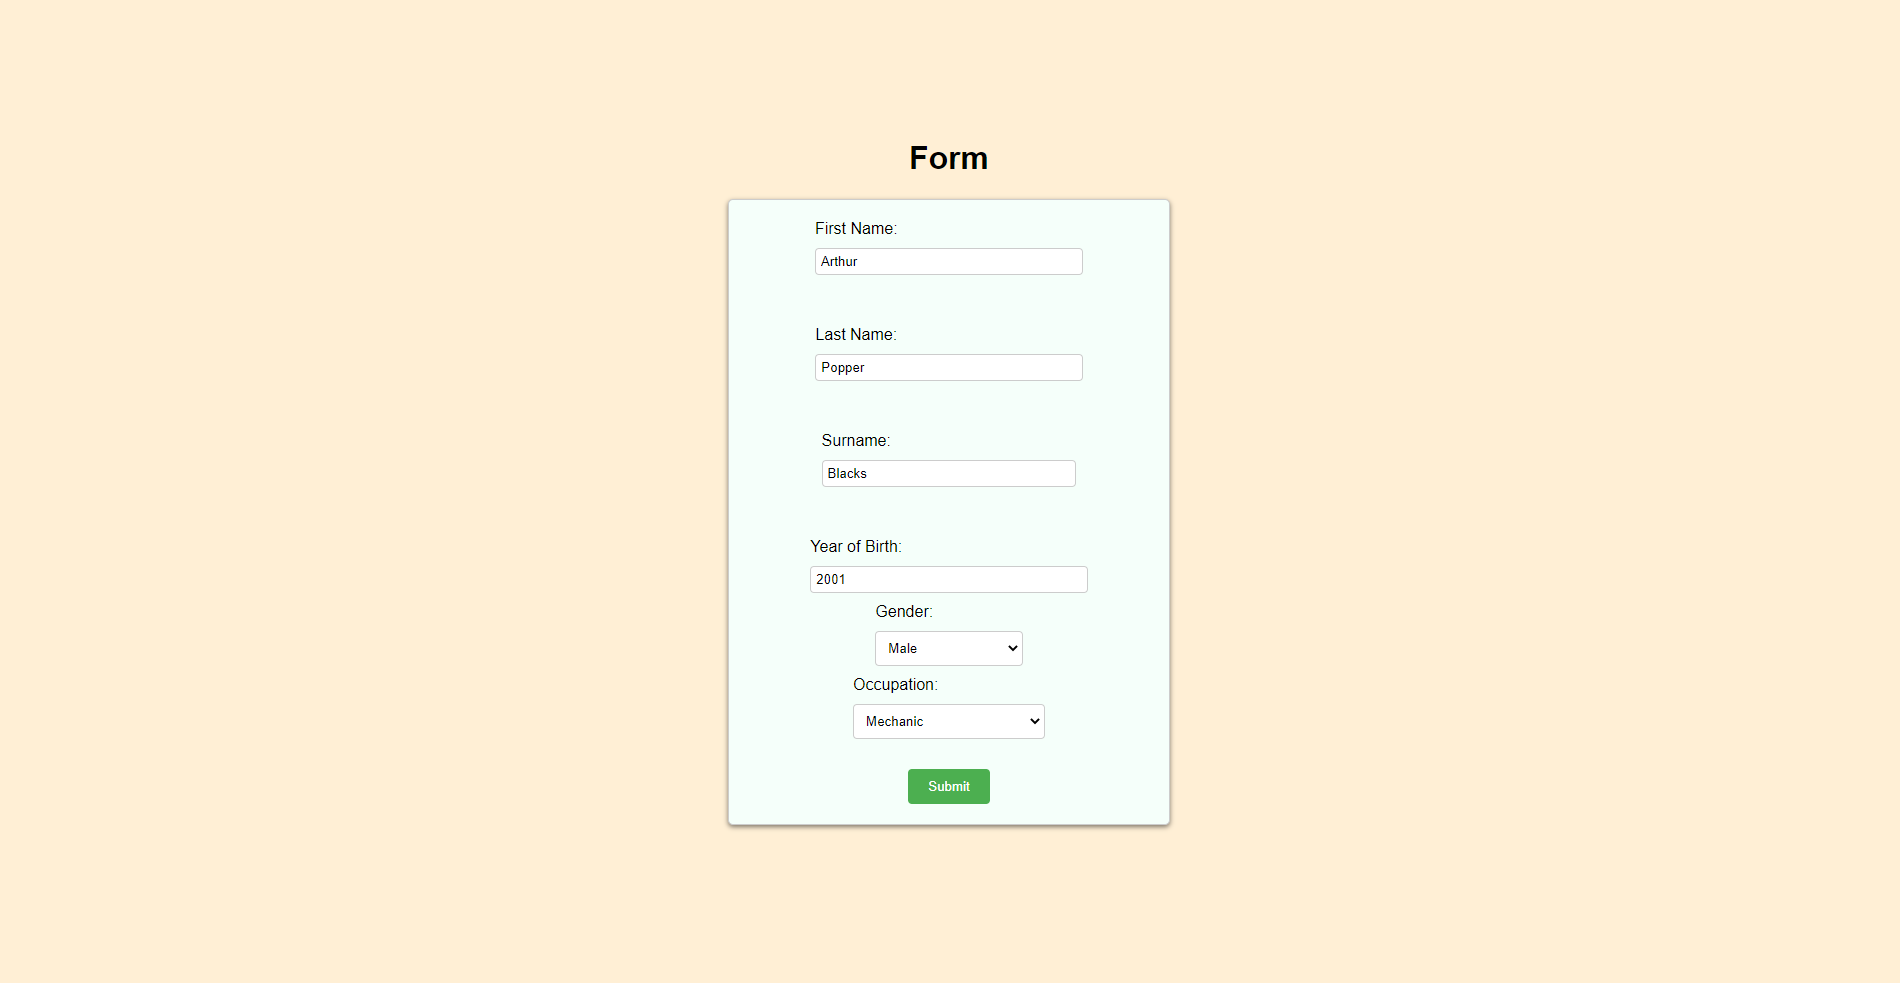
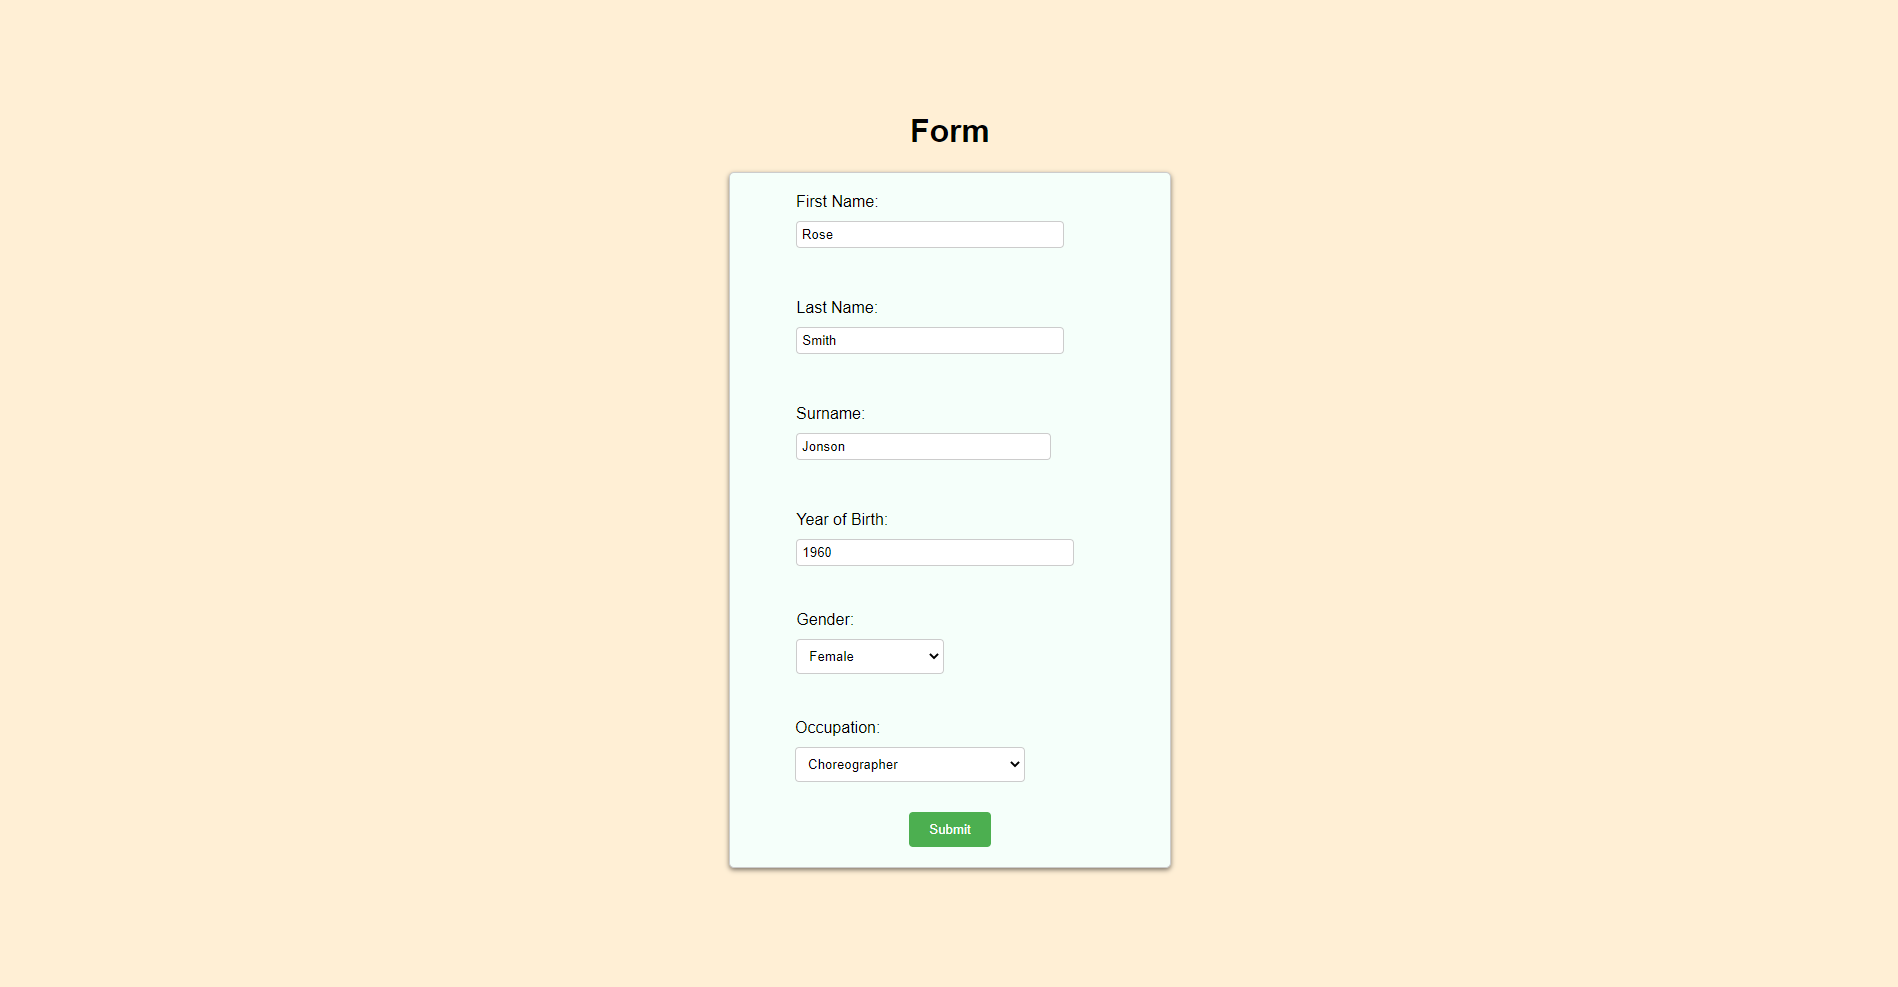
fix bug

diff --git a/src/main/resources/templates/formPage.html b/src/main/resources/templates/formPage.html
@@ -13,7 +13,7 @@
 <form id="form" th:object="${form}" th:action="@{/form}" th:method="POST">
     <input type="hidden" th:if="${form != null && form.id != null}" th:field="*{id}" />
 
-    <div>
+    <div class="firstName">
         <label for="firstName">First Name:</label>
         <input type="text" id="firstName" name="firstName" th:value="${form != null ? form.firstName : null}" required/>
         <p id="firstName-error" th:if="${#fields.hasErrors('firstName')}" class="error-message">
@@ -22,7 +22,7 @@
         <p class="error-placeholder"></p>
     </div>
 
-    <div>
+    <div class="lastName">
         <label for="lastName">Last Name:</label>
         <input type="text" id="lastName" name="lastName" th:value="${form != null ? form.lastName : null}" required/>
         <p id="lastName-error" th:if="${#fields.hasErrors('lastName')}" class="error-message">
@@ -31,7 +31,7 @@
         <p class="error-placeholder"></p>
     </div>
 
-    <div>
+    <div class="surname">
         <label for="surname">Surname:</label>
         <input type="text" id="surname" name="surname" th:value="${form != null ? form.surname : null}" required/>
         <p id="surname-error" th:if="${#fields.hasErrors('surname')}" class="error-message">
@@ -40,7 +40,7 @@
         <p class="error-placeholder"></p>
     </div>
 
-    <div>
+    <div class="yearOfBirth">
         <label for="yearOfBirth">Year of Birth:</label>
         <input type="number" id="yearOfBirth" name="yearOfBirth" th:value="${form != null ? form.yearOfBirth : null}" required/>
         <p id="yearOfBirth-error" th:if="${#fields.hasErrors('yearOfBirth')}" class="error-message">
@@ -48,13 +48,13 @@
         </p>
     </div>
 
-    <div>
+    <div class="gender">
         <label for="gender">Gender:</label>
         <select id="gender" name="gender" required>
         </select>
     </div>
 
-    <div>
+    <div class="occupation">
         <label for="occupation">Occupation:</label>
         <select id="occupation" name="occupation" required>
         </select>

diff --git a/src/main/resources/static/css/form-page-style.css b/src/main/resources/static/css/form-page-style.css
@@ -80,7 +80,6 @@ input[type="number"] {
 
 label {
     margin-top: 20px;
-    margin-bottom: 20px;
 }
 
 .error-placeholder {
@@ -91,4 +90,31 @@ label {
 input, select {
     padding: 8px;
     margin-bottom: 10px;
+}
+
+.firstName {
+    margin-right: 40px;
+}
+
+.lastName {
+    margin-right: 40px;
+}
+
+.surname {
+    margin-right: 53px;
+}
+
+.yearOfBirth {
+    margin-right: 30px;
+    margin-bottom: 35px;
+}
+
+.gender {
+    margin-right: 160px;
+    margin-bottom: 35px;
+}
+
+.occupation {
+    min-width: 230px;
+    margin-left: -80px;
 }
